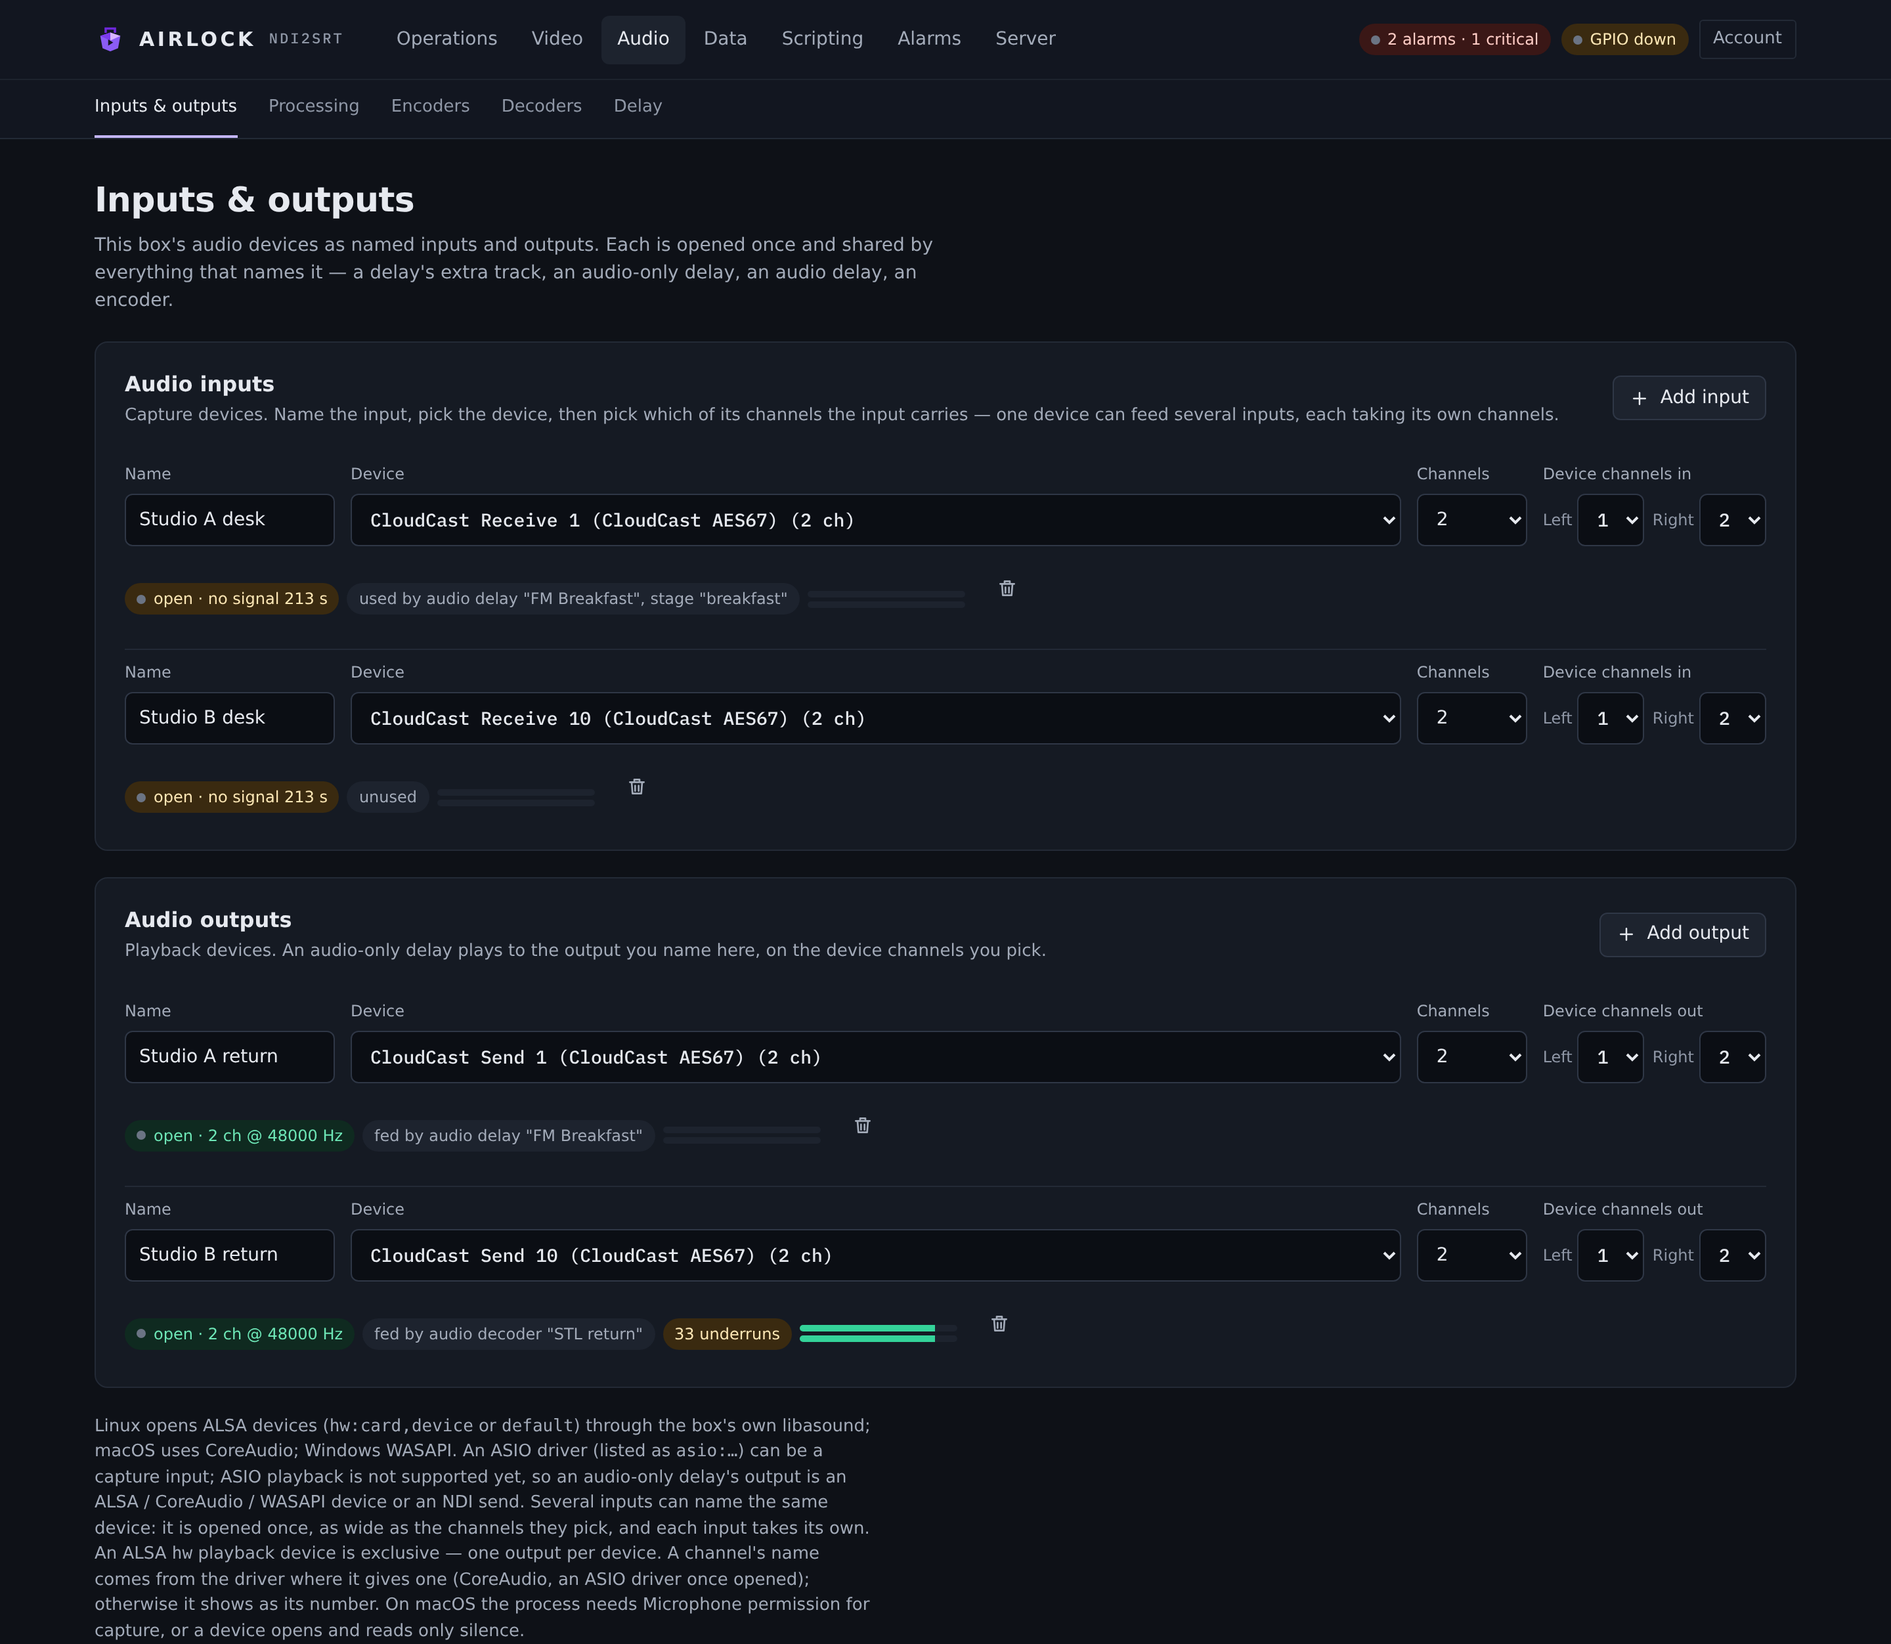
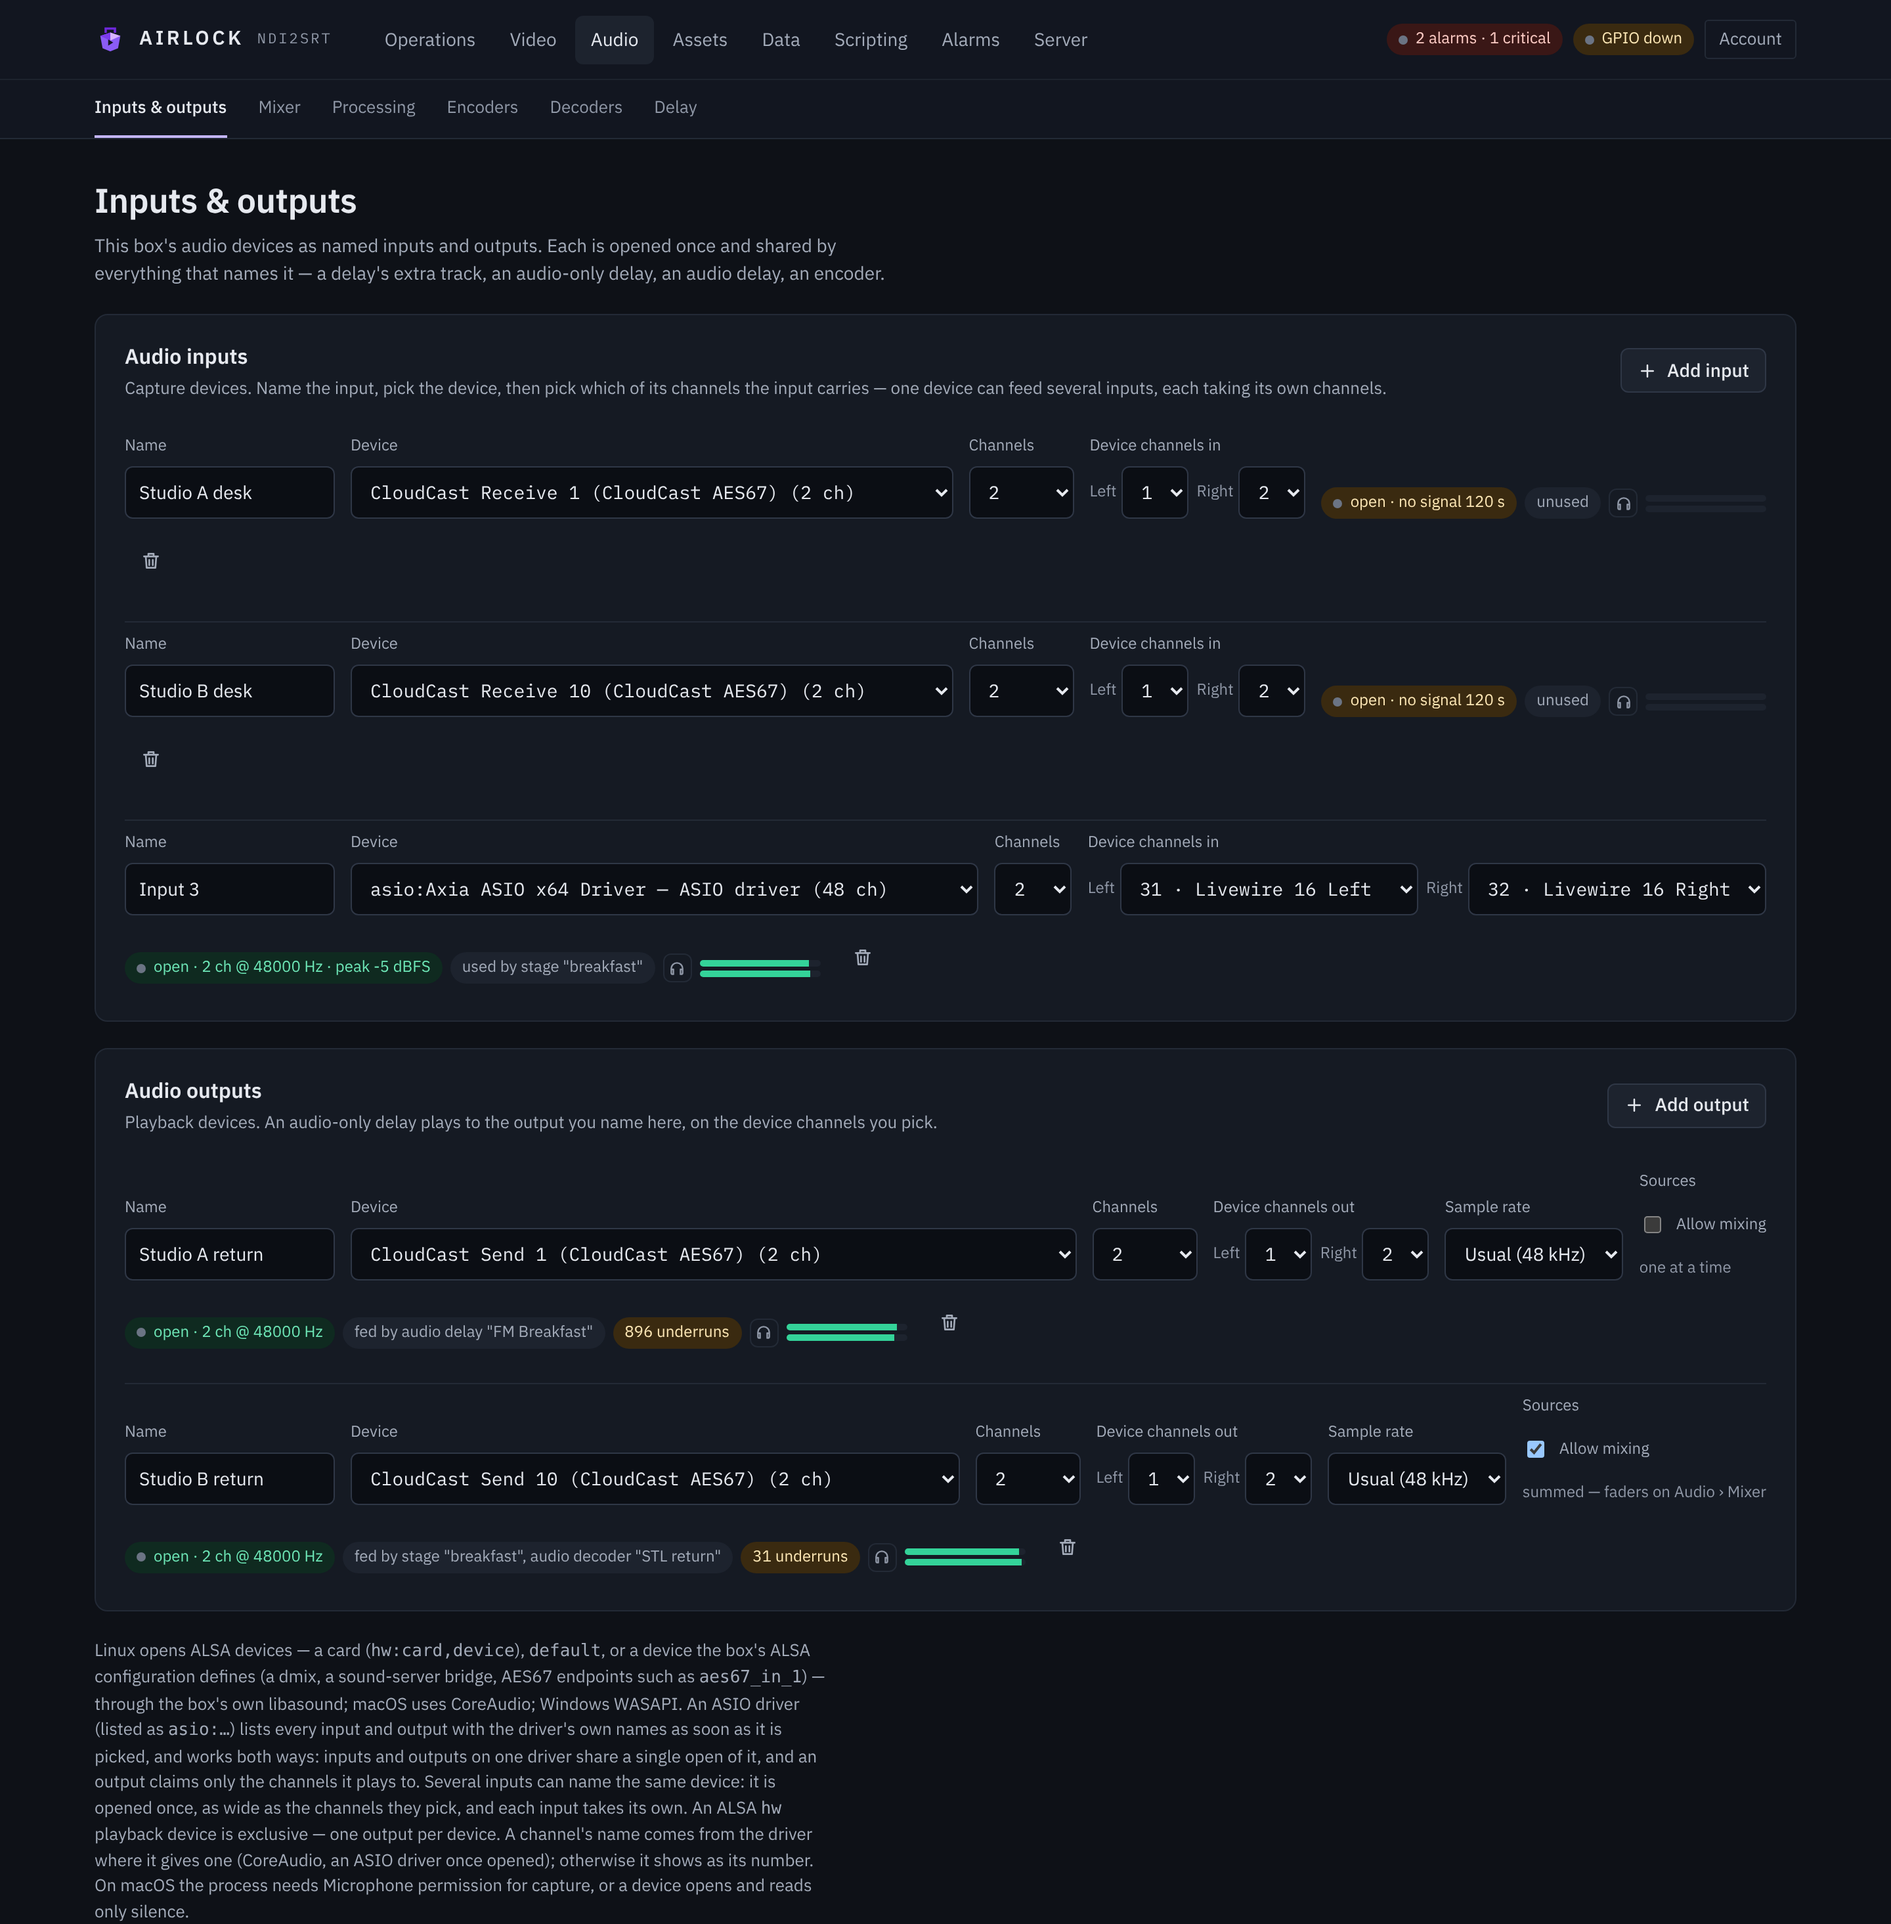
Update the Airlock manual
Generated from the product repository's manual/ tree.

diff --git a/docs/audio/mixer.md b/docs/audio/mixer.md
@@ -1,0 +1,70 @@
+# Mixer
+
+An audio output plays one source unless **Allow mixing** is on for it
+([One source per output](io.md#one-source-per-output)). On an output that
+mixes, every source gets a **fader** and an **on/off switch**, like a channel on
+a desk. **Audio › Mixer** is where you work them.
+
+![The Mixer page](../img/audio/mixer-page.png){ .shot }
+
+## A strip per source
+
+Each output that mixes is a card, with a strip for every block that plays to it:
+
+![Two sources on Studio B return: a decoder on at 0 dB, a processed stage off at −10 dB](../img/audio/mixer.png){ .shot }
+
+| Part | What it does |
+|---|---|
+| Name | The block, as the rest of the console calls it. Underneath, its kind, and the short name TCP, scripts and GPIO use when that differs (a stage is known there by its id). |
+| **ON / OFF** | Switches the source in or out of the mix. An off strip is dimmed. |
+| Fader | −80 dB at the bottom (off) to +12 dB at the top; 0 dB, unity, sits about four-fifths of the way up. **Double-click** it for 0 dB. |
+| dB box | The fader's level. Click it, type a number and press **Enter** to set it exactly. |
+| Meter | The source's level **after** its fader and switch: what it is adding to the output. |
+| **playing** / **muted** / **not running** | The source is in the mix now; it is running but switched off; or the block is not running at all. |
+| **0 dB** | Back to unity. |
+
+Moves and switches **ramp over 20 ms**, so neither clicks on air. A fader drag is
+sent a few times a second and once more when you let go.
+
+## Where the settings live
+
+- Fader positions and switches are **saved** within half a second of a move, and
+  come back after a restart.
+- They are part of the routing, so a **backup** follows its primary's
+  ([Redundancy](../redundancy/overview.md)).
+- A **locked backup** refuses them, like every other control.
+- An output that does **not** mix has no faders. Its one source passes through
+  untouched, bit for bit.
+- A source that starts playing to the output later (a block switched on, a new
+  decoder) arrives at 0 dB and on unless it already has a saved position.
+
+## Controlling the mix from outside
+
+The same faders and switches answer to every control surface, and this page
+follows a change made from any of them. A source is named as the console shows
+it (`Studio`, `Breakfast processed`) or by its short name (`breakfast`); names
+with spaces are quoted on TCP.
+
+| Surface | How |
+|---|---|
+| REST | `GET /api/audio-mix` for every output and source; `POST /api/audio-mix?output=&source=` with `gain_db`, `on` or `toggle=1` — see [REST API](../control/rest.md#mixer-faders-and-switches) |
+| TCP | `MIX "Studio B return" "STL return" GAIN -6`, `… ON`, `… OFF`, `… TOGGLE`; `MIX` lists everything; `SUBSCRIBE MIX` pushes every change — see [TCP](../control/tcp.md#mixer) |
+| Scripts | `air.mix_on`, `air.mix_off`, `air.mix_toggle`, `air.mix_gain`, `air.mix_state`, and the `mixEvent` trigger — see [Scripting API](../scripting/api.md) |
+| Axia GPIO | a `mix:<output>/<source>` target: `enable` (on), `disable` (off), `toggle`; `enable` with edge `BOTH` is "on while held". Lamps `on`, `off` and `live` — see [Axia GPIO](../control/gpio.md#one-pin-many-blocks) |
+
+```text
+> MIX "Studio B return" "STL return" GAIN -6
+< OK 0 MIX "Studio B return" "STL return" ON -6.0
+```
+
+```lua
+-- duck the processed feed under the return while the talkback key is down
+air.mix_gain("Studio B return", "breakfast", -20)
+```
+
+## Settings reference
+
+| Setting | Console | Config key | Default | Meaning |
+|---|---|---|---|---|
+| Allow mixing | Audio › Inputs & outputs › **Sources** | `audio_mix_outputs` | `[]` | The outputs that may play more than one source |
+| Fader, switch | Audio › **Mixer** | `audio_mix_sources[]` `{output, source, gain_db, on}` | 0 dB, on | One source on a mixing output; `source` is its full label, e.g. `audio decoder "STL return"` |

diff --git a/docs/audio/io.md b/docs/audio/io.md
@@ -130,7 +130,10 @@ on air:
 
 When you do want several sources summed (a shared monitor, a talkback mix), tick
 **Allow mixing** on the output's row. Its pickers then say *(mixing)* and any
-number of blocks may play to it.
+number of blocks may play to it, and each gets a fader and an on/off on the
+[Mixer](mixer.md).
+
+![An output with Allow mixing on, fed by two blocks](../img/audio/io-mixing.png){ .shot }
 
 Mixing is part of the routing, so a backup follows its primary's choice even
 though the devices behind the names are each box's own. A disabled block does
@@ -139,21 +142,7 @@ not hold an output.
 ### Faders and switches
 
 Every source on an output with **Allow mixing** on has a fader and an on/off
-switch. **Audio › Mixer** shows them as a strip per source: an **ON/OFF**
-button, a fader (double-click it for 0 dB), the level in dB (type a number and
-press Enter), and a meter after the fader.
-
-- A fader runs from −80 dB (off the bottom) to +12 dB; 0 dB is unity.
-- A move or a switch **ramps over 20 ms**, so neither clicks on air.
-- Positions are **saved** within half a second and come back after a restart.
-  They are synced to a backup with the rest of the routing.
-- The same faders and switches answer to REST (`/api/audio-mix`), the TCP `MIX`
-  command, scripts (`air.mix_on`, `air.mix_gain`, …, and the `mixEvent`
-  trigger) and Axia GPIO (`mix:<output>/<source>` targets and lamps). The page
-  follows a change made from any of them.
-- A locked backup refuses them, like every other control.
-- An output that plays one source has no faders: its single source passes
-  untouched, bit for bit.
+switch, on **Audio › Mixer**. See [Mixer](mixer.md).
 
 !!! note "Upgrading"
     A configuration from before 0.15.64 that already sends several blocks to

diff --git a/docs/start/console.md b/docs/start/console.md
@@ -231,7 +231,8 @@ anything.
 | Page | What it is for |
 |---|---|
 | **Inputs & outputs** | This box's audio devices as named inputs and outputs. Name it, pick the device, say how many channels to open (0 = all it has). Each is opened once and shared. |
-| **Sources** | Stereo Tool stages. Build a stage on an input and it becomes a new, processed source any encoder can pick — processed once, fanned out. |
+| **Mixer** | A fader and an on/off for every source on an output that allows mixing. The same controls answer to REST, TCP, scripts and Axia GPIO. |
+| **Processing** | Stereo Tool stages. Build a stage on an input and it becomes a new, processed source any encoder can pick — processed once, fanned out — and can play straight to an output. |
 | **Encoders** | A source, an optional Stereo Tool, an alignment delay, then a codec on SRT, RTP, a SIP call, RTMP, Icecast or HLS. Only valid bitrates per codec are offered. A SIP encoder has a call card with Dial and Hang up. |
 | **Decoders** | Receive a coded audio stream over SRT, decode it, out as NDI audio and/or to an audio output. |
 | **Delay** | Broadcast profanity delays — source, delay, output, with their own build, dump, censor and exit. |

diff --git a/docs/audio/sources.md b/docs/audio/sources.md
@@ -337,6 +337,9 @@ receive, with the processor's latency. It is not the FM composite (see
 
 - The card shows **Playing to *output*** once audio is flowing, or **Not playing
   to *output*** with the reason, for example `no audio output called "TX 1"`.
+
+![A Stereo Tool stage playing its processed audio to an output](../img/audio/sources-play-to.png){ .shot }
+
 - Changing or clearing **Play to** takes effect on the running stage. Stereo Tool
   is not reloaded and the stage's encoders do not gap.
 - A missing output never stops the stage: its encoders and delays carry on.
